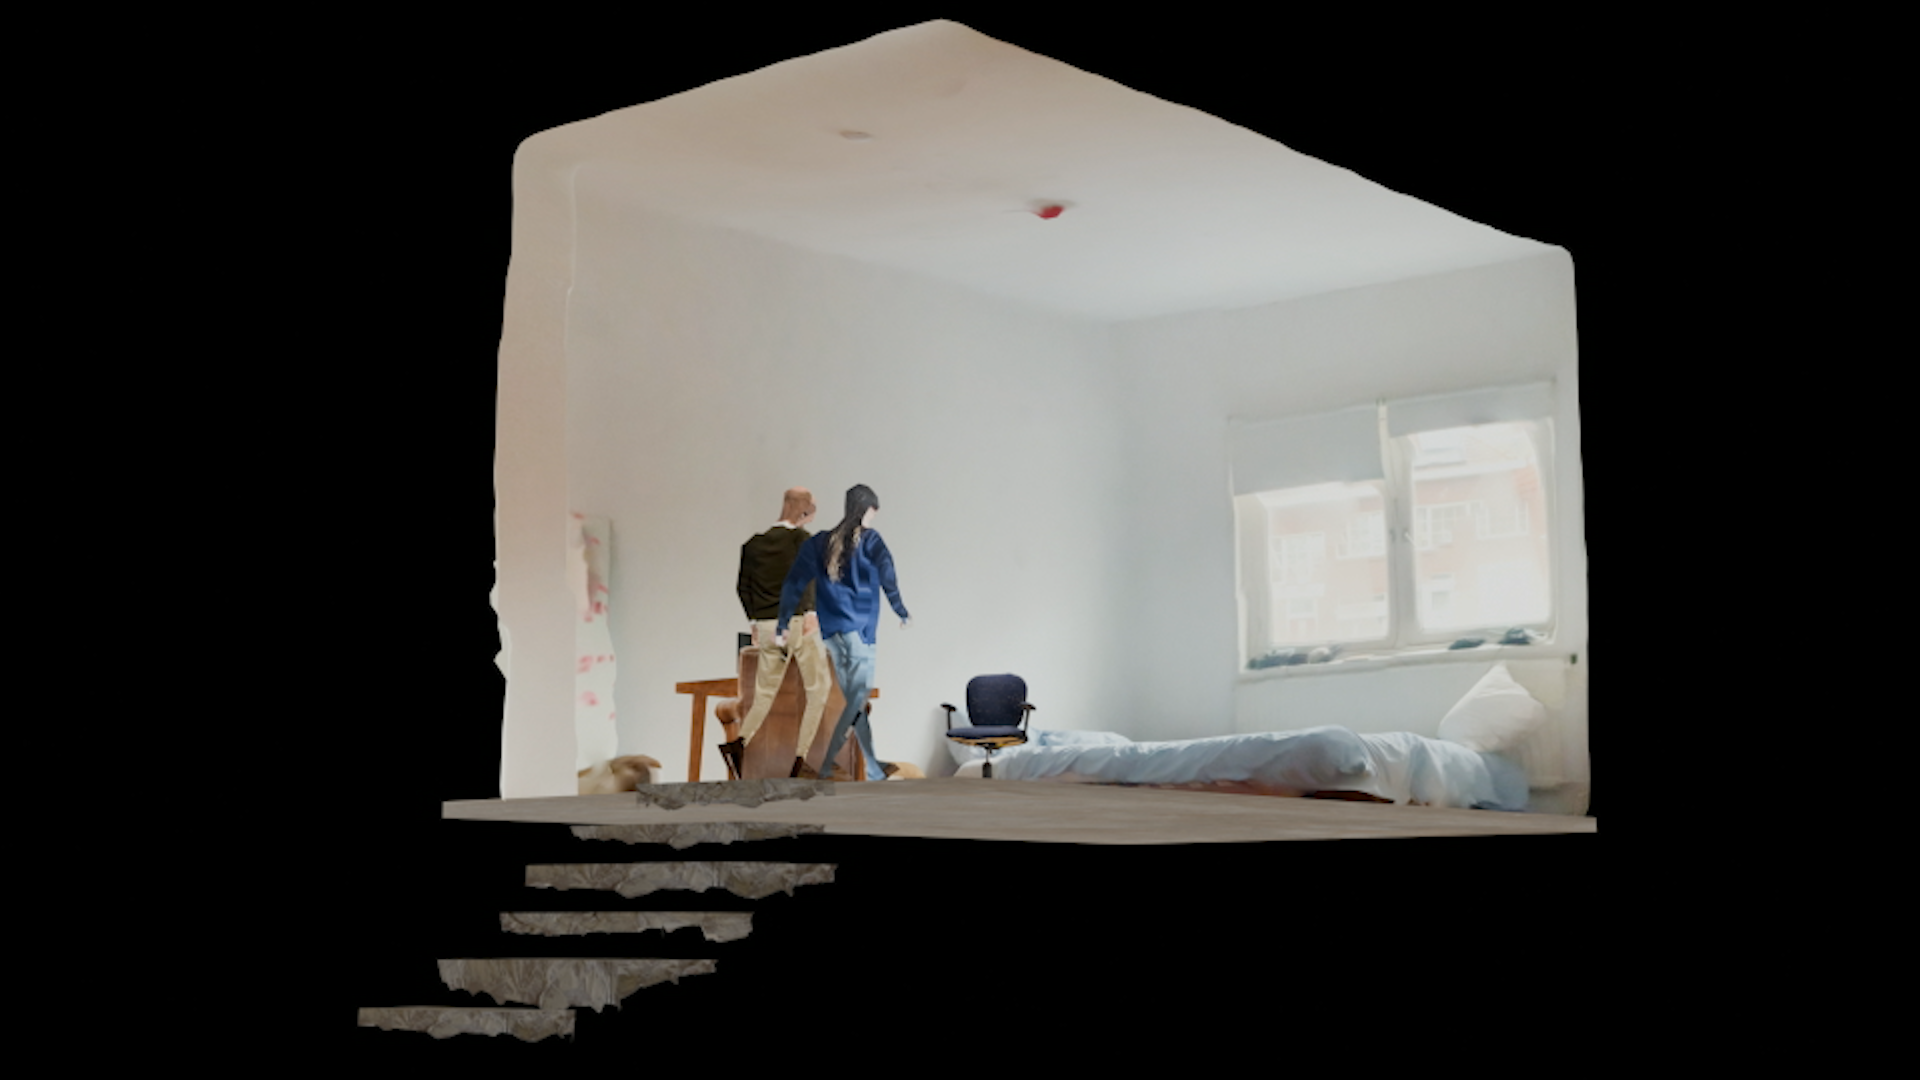
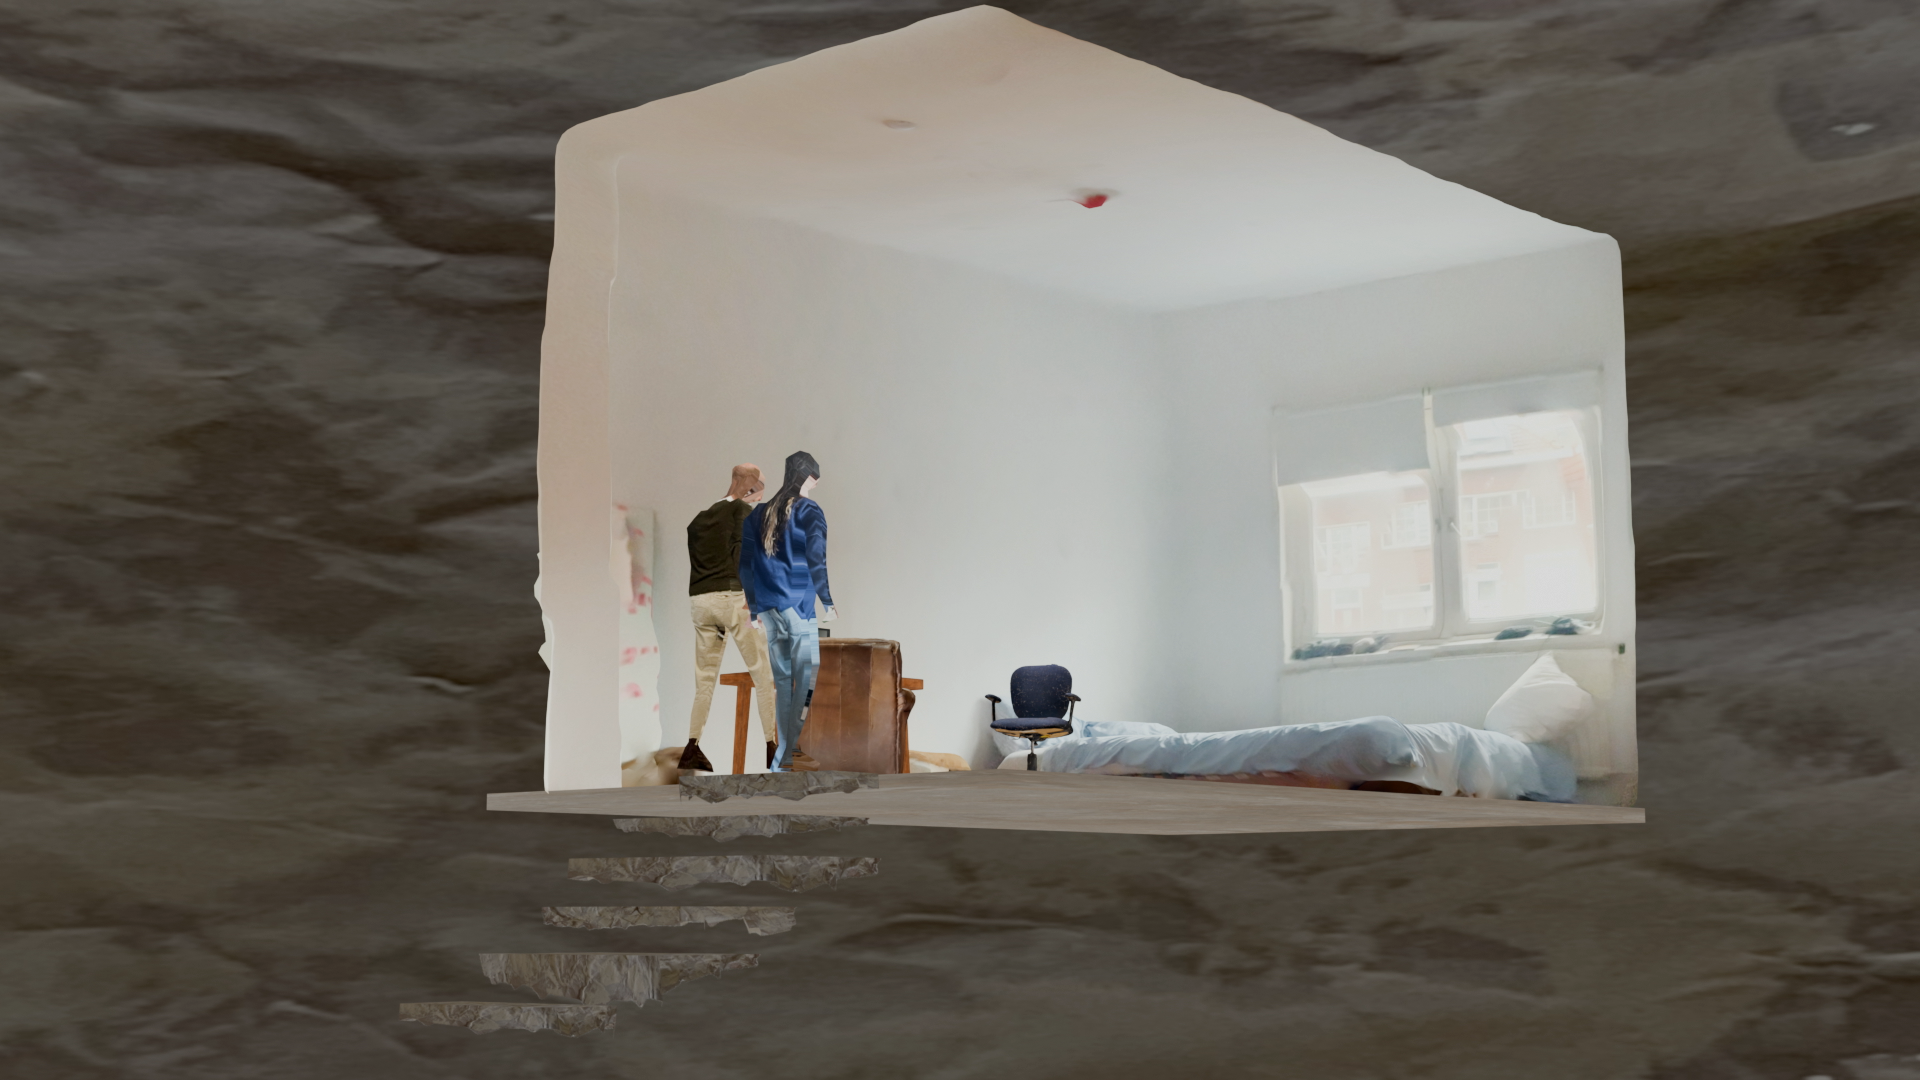
commit27-11

diff --git a/rehersal-for-expected-futures.html b/rehersal-for-expected-futures.html
@@ -46,7 +46,7 @@ https://caroljpeg.github.io/Andrea_Martinelli/index.html
             <br>
             9'15''<br>
         <br>
-            <button><a href = 'https://www.youtube.com/watch?v=pJ7uxop_EU0'>film</a></button>
+            <button><a href = 'https://youtu.be/_JGo-p-zQA0'>film</a></button>
         <br>
             <button><a href = 'anatomia-di-un-diario.html'>← previous project</a></button>
             <button><a href='index.html'>home</a></button>
